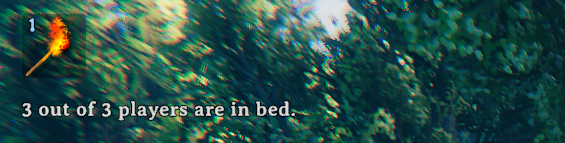
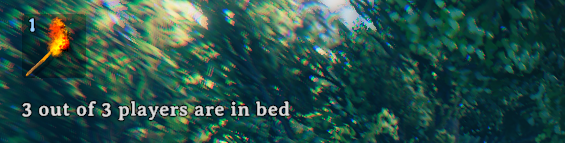
Refresh screenshots with current announcement text

diff --git a/docs/SCREENSHOTS.md b/docs/SCREENSHOTS.md
@@ -1,8 +1,8 @@
 # README screenshots
 
 Captured on October 4, 2026, using the installed Linux Valheim client and
-Bedtime's announcement formatter from commit `342ad23`, including the leading
-blank lines that keep the count below the hotbar.
+Bedtime's announcement formatter from commit `3a4df25`, with no period after the
+bed count and leading blank lines that keep it below the hotbar.
 
 The game ran on a hidden Gamescope display at 1920 × 1080. A Bubblewrap sandbox
 hid the normal home directory, used disposable local character/world saves,

diff --git a/README.md b/README.md
@@ -4,7 +4,7 @@
 
 A dedicated-server Valheim mod that shows how many players are in bed. Players can use vanilla clients, including consoles.
 
-![Top-left notification: 1 out of 3 players are in bed. Not Sleeping: Bob and Charlie.](package/screenshots/not-sleeping.webp)
+![Top-left notification showing the bed count and Not Sleeping list.](package/screenshots/not-sleeping.webp)
 
 Valheim still decides when everyone can sleep. Sitting does not count, there is
 no voting, and the mod never starts sleep or skips time.
